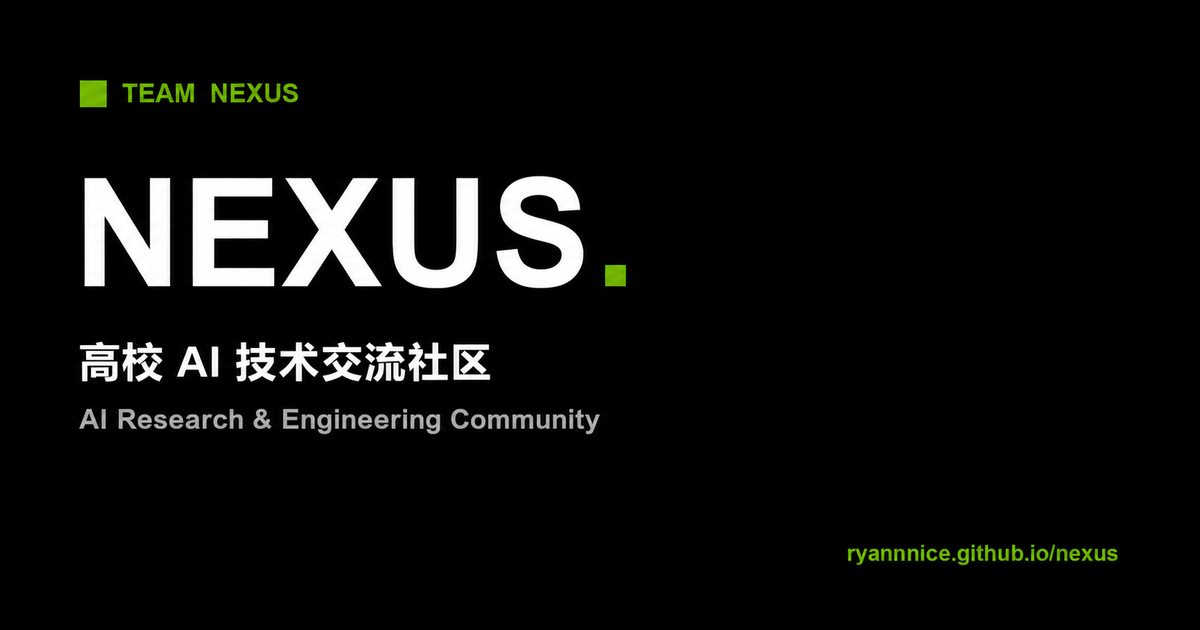
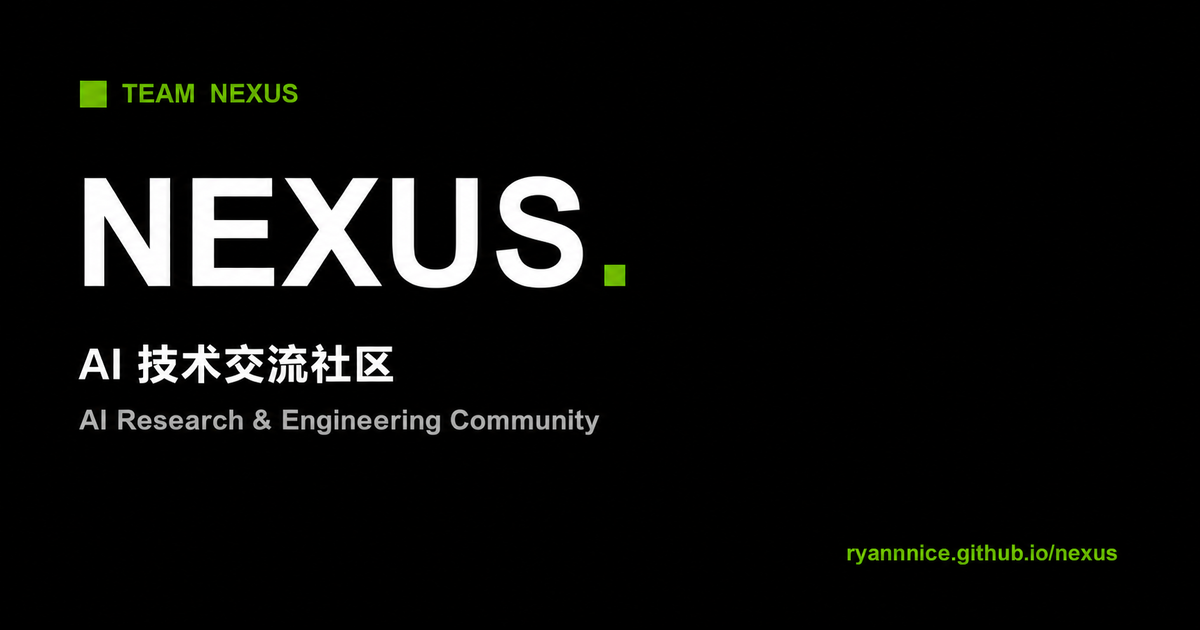
移除社区定位中的高校限定

diff --git a/index.html b/index.html
@@ -3,7 +3,7 @@
 <head>
   <meta charset="UTF-8" />
   <meta name="viewport" content="width=device-width, initial-scale=1.0" />
-  <title>TEAM NEXUS — 高校 AI 技术交流社区</title>
+  <title>TEAM NEXUS — AI 技术交流社区</title>
   <meta name="description" content="NEXUS 是由来自粤港澳、内地及海外 20 所高校成员组成的 AI 技术社区，关注学习分享、研究交流与工程实践。" />
 
   <link rel="icon" type="image/svg+xml" href="assets/favicon.svg" />
@@ -12,16 +12,16 @@
 
   <!-- Open Graph / 社交分享卡 -->
   <meta property="og:type" content="website" />
-  <meta property="og:title" content="TEAM NEXUS — 高校 AI 技术交流社区" />
+  <meta property="og:title" content="TEAM NEXUS — AI 技术交流社区" />
   <meta property="og:description" content="来自粤港澳、内地及海外 20 所高校的 AI 学习者与研究者。" />
   <meta property="og:url" content="https://ryannnice.github.io/nexus/" />
-  <meta property="og:image" content="https://ryannnice.github.io/nexus/assets/og-cover.png?v=2" />
+  <meta property="og:image" content="https://ryannnice.github.io/nexus/assets/og-cover.png?v=3" />
   <meta property="og:image:width" content="1200" />
   <meta property="og:image:height" content="630" />
   <meta name="twitter:card" content="summary_large_image" />
-  <meta name="twitter:title" content="TEAM NEXUS — 高校 AI 技术交流社区" />
+  <meta name="twitter:title" content="TEAM NEXUS — AI 技术交流社区" />
   <meta name="twitter:description" content="来自粤港澳、内地及海外 20 所高校的 AI 学习者与研究者。" />
-  <meta name="twitter:image" content="https://ryannnice.github.io/nexus/assets/og-cover.png?v=2" />
+  <meta name="twitter:image" content="https://ryannnice.github.io/nexus/assets/og-cover.png?v=3" />
   <link rel="preconnect" href="https://fonts.googleapis.com" />
   <link rel="preconnect" href="https://fonts.gstatic.com" crossorigin />
   <link rel="stylesheet" href="style.css?v=3" />
@@ -59,7 +59,7 @@
           学习 · 研究 · 工程
         </div>
         <h1>NEXUS<span class="dot">.</span></h1>
-        <p class="hero-sub">高校 AI 技术交流社区</p>
+        <p class="hero-sub">AI 技术交流社区</p>
         <p class="hero-sub-en">AI Research &amp; Engineering Community</p>
 
         <p class="hero-motto">
@@ -1034,7 +1034,7 @@
       <div class="footer-grid">
         <div class="footer-brand">
           <div class="brand"><span class="corner-square"></span><span class="mark" style="color:var(--primary);font-weight:700;">NEXUS</span></div>
-          <p class="cn">高校 AI 技术交流社区<br />AI Research &amp; Engineering Community</p>
+          <p class="cn">AI 技术交流社区<br />AI Research &amp; Engineering Community</p>
         </div>
 
         <div class="footer-col">

diff --git a/README.md b/README.md
@@ -1,6 +1,6 @@
 # TEAM NEXUS
 
-**高校 AI 技术交流社区**
+**AI 技术交流社区**
 *AI Research & Engineering Community*
 
 **NEXUS**（纽带 / 核心）代表连接与协作。成员来自粤港澳、内地及海外，在这里分享学习资料、交流研究问题，并开展项目实践。
